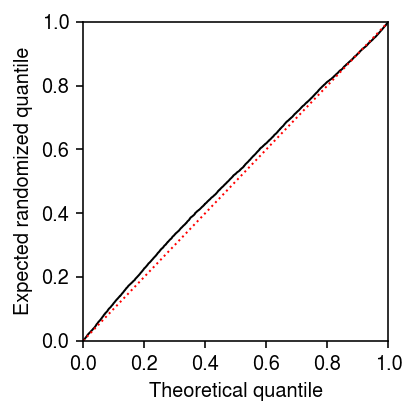
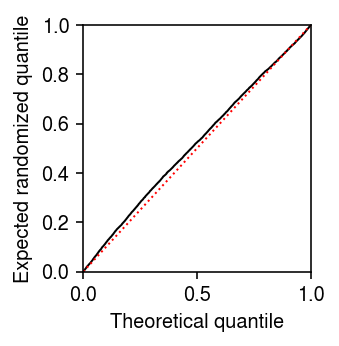
Look at marginal density

Changed region(s): [[0.0295, 0.0289, 0.9735, 0.9827]]

diff --git a/docs/gof.html b/docs/gof.html
@@ -1,7 +1,7 @@
 <!DOCTYPE html>
 <html lang="en">
 <head>
-<!-- 2020-07-28 Tue 15:44 -->
+<!-- 2020-07-29 Wed 13:23 -->
 <meta charset="utf-8">
 <meta name="viewport" content="width=device-width, initial-scale=1">
 <title>Goodness of fit of deconvolved distributions</title>
@@ -262,7 +262,7 @@ for the JavaScript code in this tag.
 <li><a href="#setup">Setup</a></li>
 <li><a href="#org9458460">Methods</a>
 <ul>
-<li><a href="#org9465c85">Test for goodness of fit</a></li>
+<li><a href="#org288e017">Test for goodness of fit</a></li>
 <li><a href="#org1e959d4">Poisson-unimodal goodness of fit</a></li>
 <li><a href="#orgfd5c235">Data</a></li>
 </ul>
@@ -355,9 +355,9 @@ Here, we directly test for the goodness of fit of the estimated distributions
 <h2 id="org9458460">Methods</h2>
 <div class="outline-text-2" id="text-org9458460">
 </div>
-<div id="outline-container-org9465c85" class="outline-3">
-<h3 id="org9465c85">Test for goodness of fit</h3>
-<div class="outline-text-3" id="text-org9465c85">
+<div id="outline-container-org288e017" class="outline-3">
+<h3 id="org288e017">Test for goodness of fit</h3>
+<div class="outline-text-3" id="text-org288e017">
 <p>
 The key idea underlying our test for goodness of fit is the fact that if
 \(x_{i} \sim F(\cdot)\), then \(F(x_{i}) \sim \operatorname{Uniform}(0,
@@ -825,8 +825,8 @@ plt.tight_layout()
 </div>
 </div>
 
-<div id="outline-container-org288e017" class="outline-3">
-<h3 id="gof"><a id="org288e017"></a>Test for goodness of fit</h3>
+<div id="outline-container-orge69a5b4" class="outline-3">
+<h3 id="gof"><a id="orge69a5b4"></a>Test for goodness of fit</h3>
 <div class="outline-text-3" id="text-gof">
 <p>
 Run the GPU-based methods.
@@ -1370,6 +1370,23 @@ distribution.
 <h3 id="examples"><a id="org2542000"></a>Real data examples</h3>
 <div class="outline-text-3" id="text-examples">
 <p>
+Read the results.
+</p>
+
+<div class="org-src-container">
+<pre class="src src-ipython"><span class="org-variable-name">gene_info</span> = pd.read_csv(<span class="org-string">'/project2/mstephens/aksarkar/projects/singlecell-qtl/data/scqtl-genes.txt.gz'</span>, sep=<span class="org-string">'\t'</span>, index_col=0)
+<span class="org-variable-name">gof_res</span> = pd.read_csv(<span class="org-string">'/project2/mstephens/aksarkar/projects/singlecell-modes/data/gof/gof.txt.gz'</span>, sep=<span class="org-string">'\t'</span>, index_col=0)
+<span class="org-variable-name">sig</span> = (gof_res
+       .loc[gof_res[<span class="org-string">'method'</span>] == <span class="org-string">'unimodal'</span>]
+       .groupby(<span class="org-string">'dataset'</span>)
+       .<span class="org-builtin">apply</span>(<span class="org-keyword">lambda</span> x: x.loc[x[<span class="org-string">'p'</span>] &lt; 0.05 / x.shape[0]].sort_values(<span class="org-string">'p'</span>).head(n=100))
+       .reset_index(drop=<span class="org-constant">True</span>)
+       .merge(gene_info, on=<span class="org-string">'gene'</span>, how=<span class="org-string">'left'</span>)
+       [[<span class="org-string">'dataset'</span>, <span class="org-string">'gene'</span>, <span class="org-string">'name'</span>, <span class="org-string">'method'</span>, <span class="org-string">'stat'</span>, <span class="org-string">'p'</span>]])
+</pre>
+</div>
+
+<p>
 Get examples of genes which significantly depart from the estimated unimodal
 distribution, but are clearly unimodal upon inspection.
 </p>
@@ -1482,7 +1499,7 @@ Look at the expected randomized quantiles.
 
 <div class="org-src-container">
 <pre class="src src-ipython">plt.clf()
-plt.gcf().set_size_inches(3, 3)
+plt.gcf().set_size_inches(2.5, 2.5)
 plt.plot(np.linspace(0, 1, rpp.shape[0] + 2)[1:-1], np.sort(F + .5 * f), lw=1, c=<span class="org-string">'k'</span>)
 <span class="org-variable-name">lim</span> = [0, 1]
 plt.plot(lim, lim, lw=1, ls=<span class="org-string">':'</span>, c=<span class="org-string">'r'</span>)
@@ -1662,6 +1679,48 @@ plt.tight_layout()
 </div>
 
 <p>
+Plot the (average) marginal density over the observed data.
+</p>
+
+<div class="org-src-container">
+<pre class="src src-ipython"><span class="org-variable-name">pmf</span> = <span class="org-builtin">dict</span>()
+<span class="org-variable-name">gamma_res</span> = scmodes.ebpm.ebpm_gamma(x, s)
+<span class="org-variable-name">x</span> = dat.X[:,query]
+<span class="org-variable-name">s</span> = dat.obs[<span class="org-string">'size'</span>]
+<span class="org-variable-name">y</span> = np.arange(x.<span class="org-builtin">max</span>() + 1)
+<span class="org-variable-name">g</span> = np.array(res.rx2(<span class="org-string">'fitted_g'</span>))
+<span class="org-variable-name">a</span> = np.fmin(g[1], g[2])
+<span class="org-variable-name">b</span> = np.fmax(g[1], g[2])
+<span class="org-keyword">for</span> q <span class="org-keyword">in</span> (.1, .25, .5, .75, .9):
+  <span class="org-variable-name">pmf</span>[f<span class="org-string">'Gamma ($q$={q})'</span>] = np.array([np.percentile(scmodes.benchmark.gof._zig_pmf(k, size=s, log_mu=gamma_res[0], log_phi=-gamma_res[1]), 100 * q) <span class="org-keyword">for</span> k <span class="org-keyword">in</span> y])
+  <span class="org-variable-name">comp_dens_conv</span> = np.array([np.percentile(((st.gamma(a=k + 1, scale=1 / s.values.reshape(-1, 1)).cdf(b.reshape(1, -1)) - st.gamma(a=k + 1, scale=1 / s.values.reshape(-1, 1)).cdf(a.reshape(1, -1))) / np.outer(s, b - a)), 100 * q, axis=0) <span class="org-keyword">for</span> k <span class="org-keyword">in</span> y])
+  <span class="org-variable-name">comp_dens_conv</span>[:,0] = np.percentile(st.poisson(mu=s.values.reshape(-1, 1) * b[0]).pmf(y), 100 * q, axis=0)
+  <span class="org-variable-name">pmf</span>[f<span class="org-string">'Unimodal ($q$={q})'</span>] = comp_dens_conv @ g[0]
+</pre>
+</div>
+
+<div class="org-src-container">
+<pre class="src src-ipython"><span class="org-variable-name">cm</span> = plt.get_cmap(<span class="org-string">'Paired'</span>)
+plt.clf()
+plt.gcf().set_size_inches(7.5, 2.5)
+plt.hist(dat.X[:,query], bins=np.arange(dat.X[:,query].<span class="org-builtin">max</span>() + 1), color=<span class="org-string">'k'</span>, density=<span class="org-constant">True</span>)
+<span class="org-keyword">for</span> i, k <span class="org-keyword">in</span> <span class="org-builtin">enumerate</span>(pmf):
+  plt.plot(y, pmf[k], c=cm(i), lw=1, label=k)
+plt.legend(frameon=<span class="org-constant">False</span>, loc=<span class="org-string">'center left'</span>, bbox_to_anchor=(1, .5), ncol=2)
+plt.xlabel(<span class="org-string">'Number of molecules'</span>)
+plt.ylabel(<span class="org-string">'Density'</span>)
+plt.title(gene_info.loc[dat.var.index[query], <span class="org-string">'name'</span>])
+plt.tight_layout()
+</pre>
+</div>
+
+
+<div class="figure">
+<p><img src="figure/gof.org/ENSG00000177954-fit.png" alt="ENSG00000177954-fit.png">
+</p>
+</div>
+
+<p>
 <i>CXCR4</i> departs from Gamma, but not from point-Gamma.
 </p>
 
@@ -1696,7 +1755,7 @@ fig.tight_layout()
 </div>
 <div id="postamble" class="status">
 <p class="author">Author: Abhishek Sarkar</p>
-<p class="date">Created: 2020-07-28 Tue 15:44</p>
+<p class="date">Created: 2020-07-29 Wed 13:23</p>
 <p class="validation"><a href="http://validator.w3.org/check?uri=referer">Validate</a></p>
 </div>
 </body>
